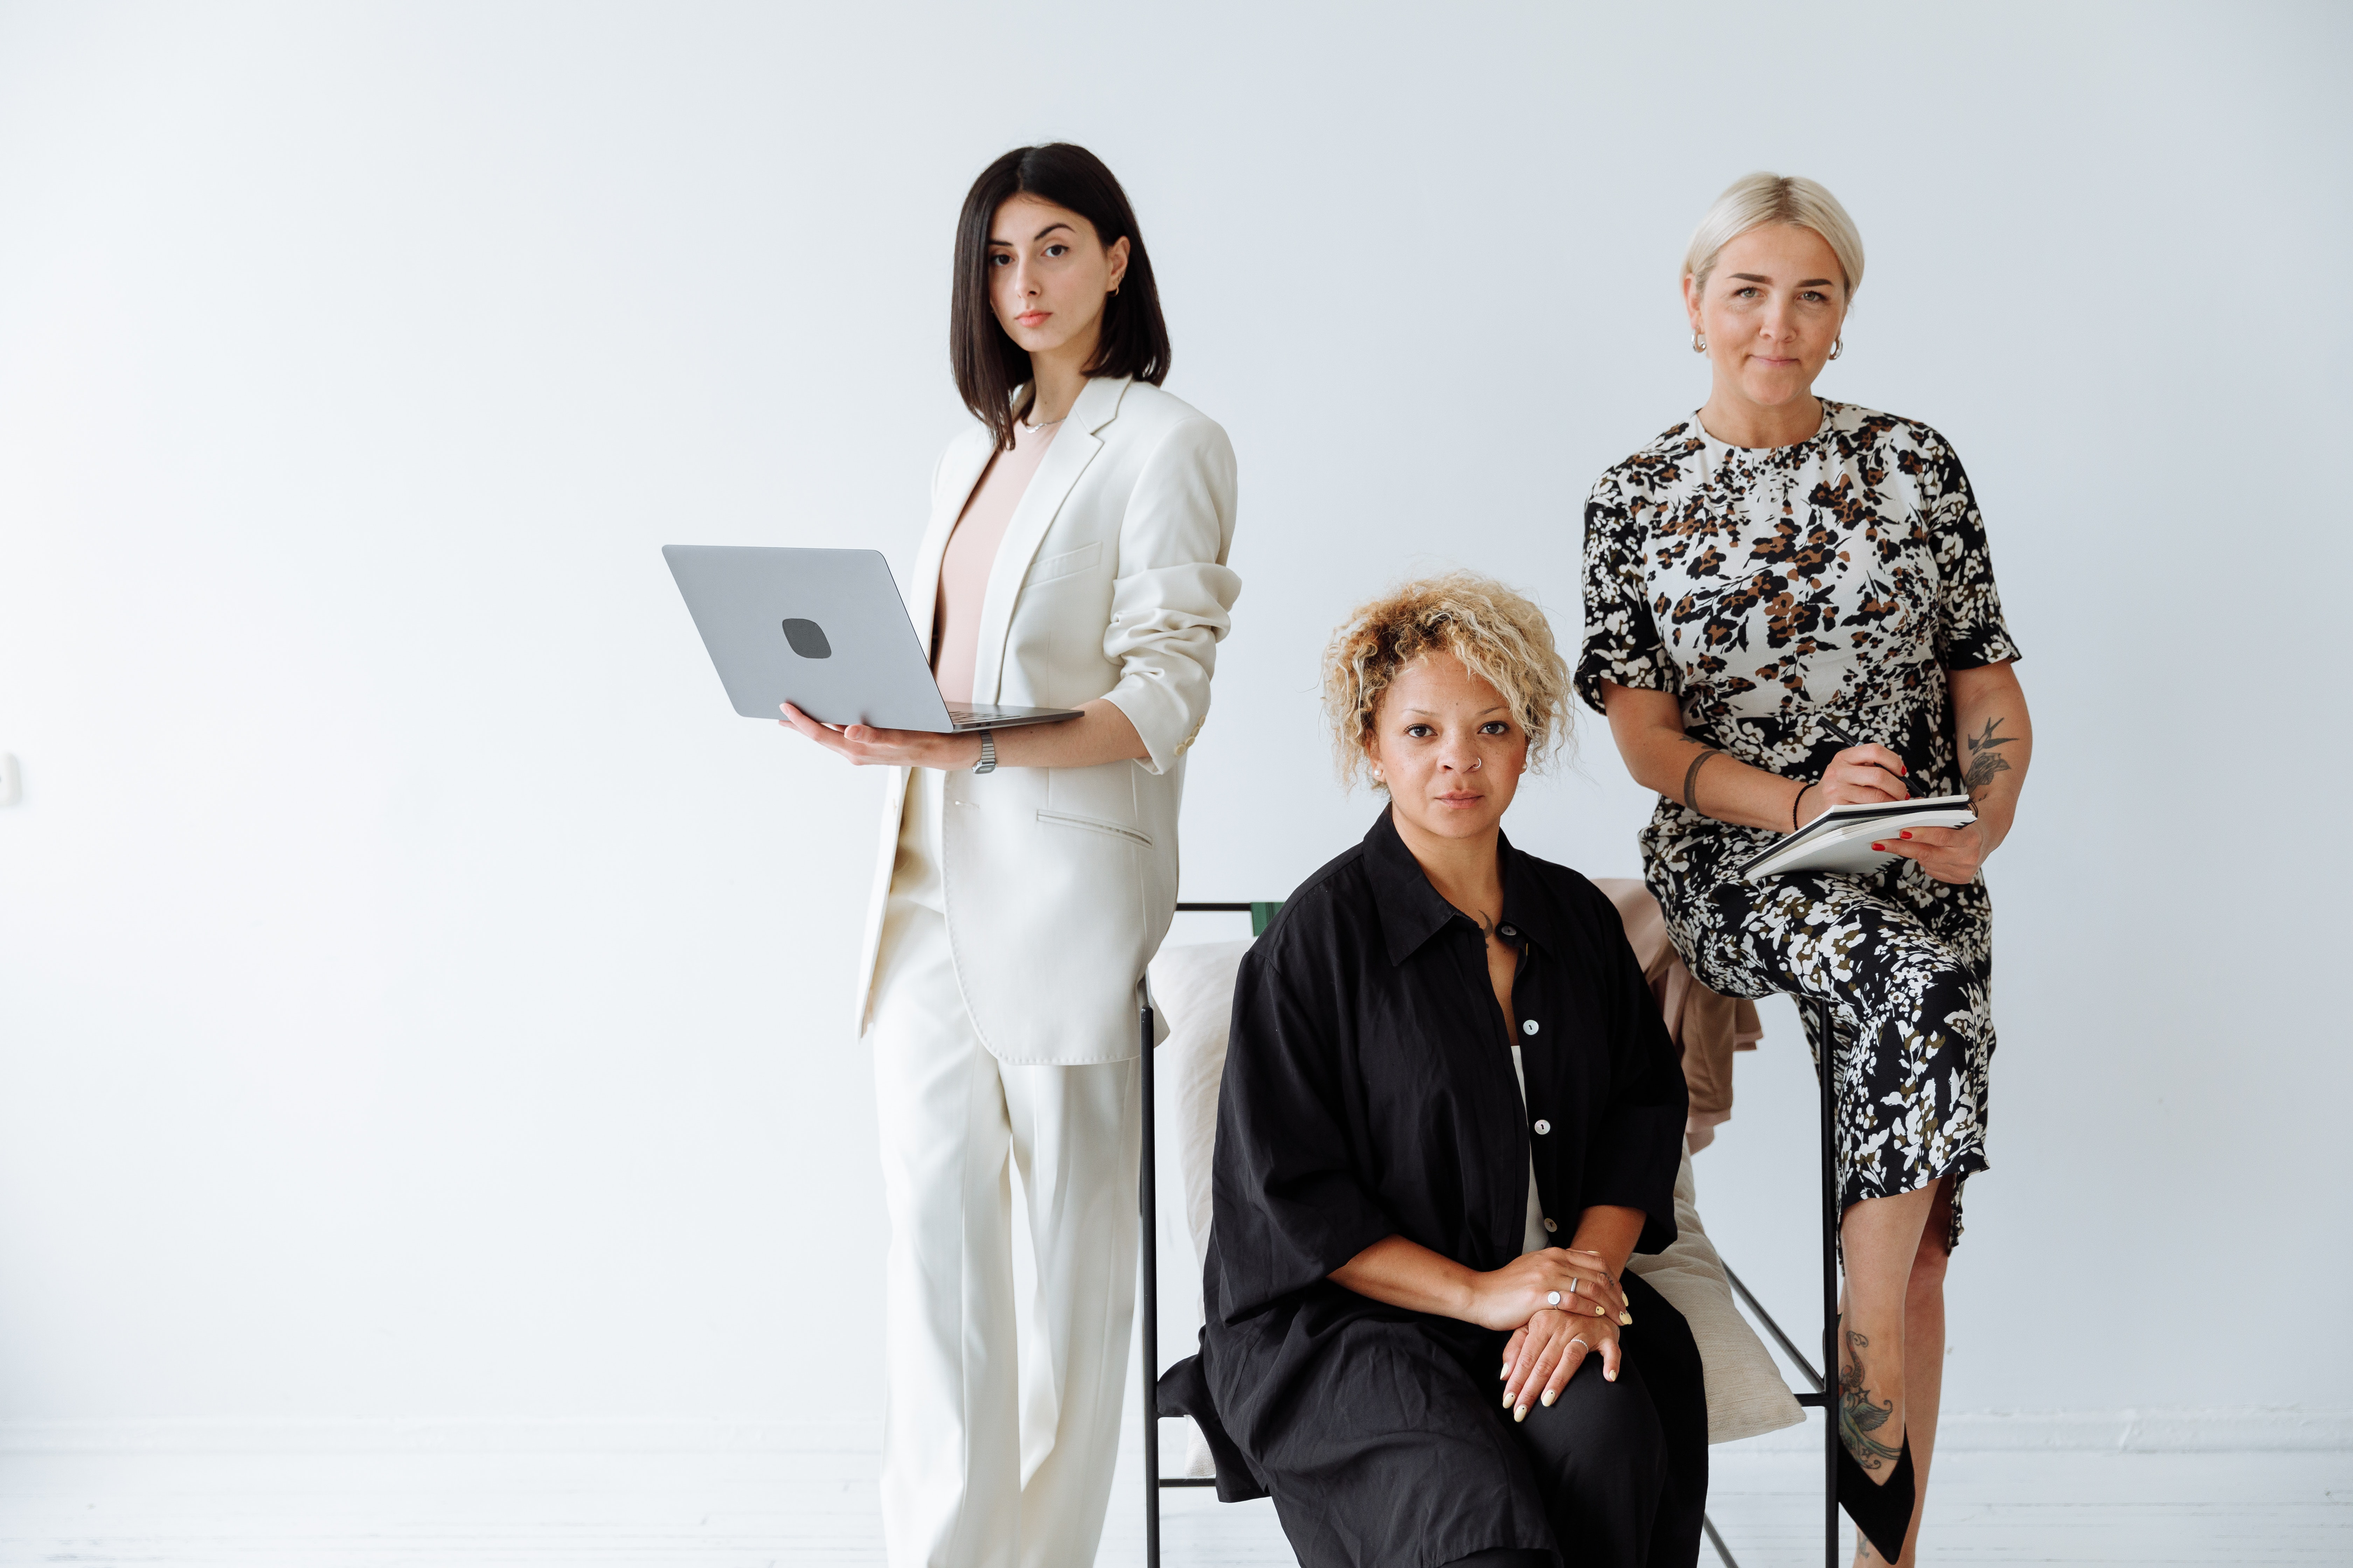
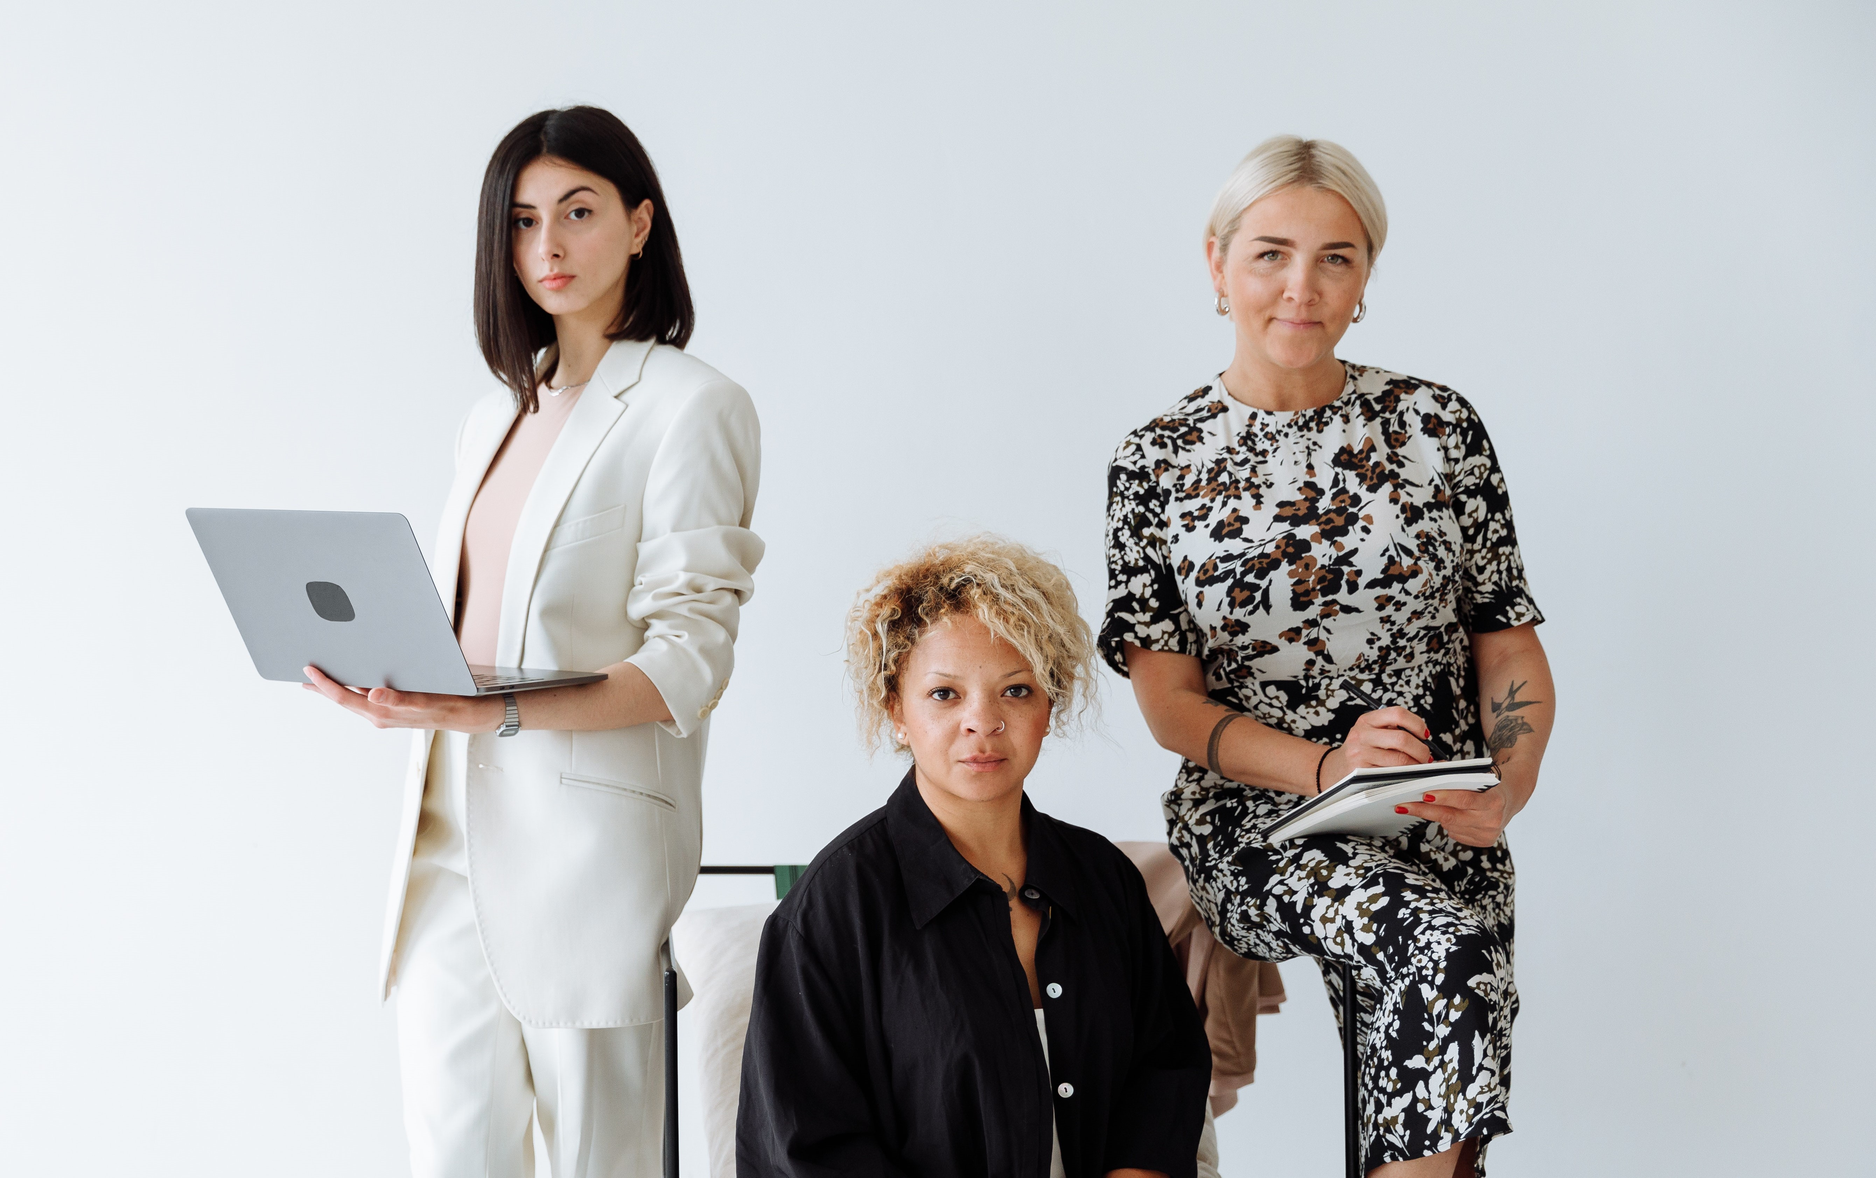
Main picture changed due to sizing images

diff --git a/assets/css/style.css b/assets/css/style.css
@@ -3,8 +3,9 @@
     display: flex;
     flex-flow: row wrap;
     text-align: center;
+    background-color: rgb(182, 178, 178);
     
-   e
+   
 }
 .wrapper > * {
     padding: 10px;
@@ -112,7 +113,10 @@ ul {
 #women-image {
     height: 400px;
     width: 100%;
-    background: url('/assets/css/images/pexels-thirdman-8485839.jpg') no-repeat center center;
+    background: url('/assets/css/images/pexels-cottonbro-7610405.jpg') no-repeat;
+    background-position: top;
+    background-size: cover;
+    padding-bottom: 5px;
 
     /* animates zoom effect on loading page */
     animation-name: hero-zoom;
@@ -191,6 +195,9 @@ ul {
 footer {
     height: 150px;
     margin: 0;
+    position: sticky;
+    bottom:0;
+    width: 100%;
 }
 
 .footer-icons {

diff --git a/index.html b/index.html
@@ -52,10 +52,8 @@
     <h1>Women Empowering Women</h1>
     <div class="responsive-video"> 
         
-        <iframe width="560" height="315" src="https://youtu.be/x7ttdYqguAY" 
-        frameborder="0" allow="autoplay; encrypted-media" allowfullscreen>
-        </iframe>
-           Classes
+        
+        <iframe width="560" height="315" src="https://www.youtube.com/embed/x7ttdYqguAY" title="YouTube video player" frameborder="0" allow="autoplay" allowfullscreen></iframe>
     </div>
 </aside>
 
